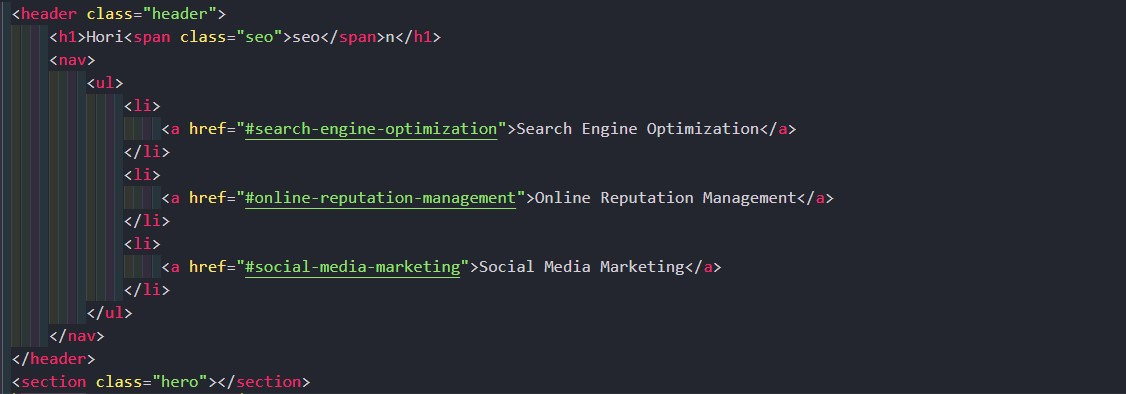
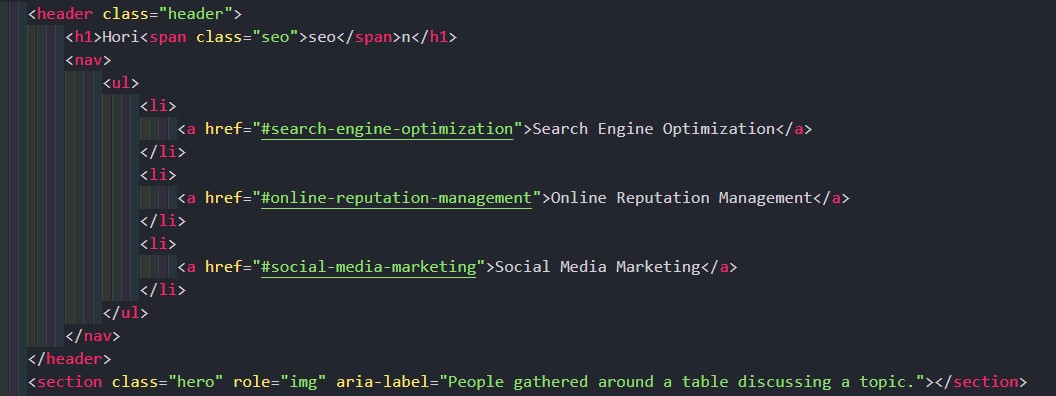
HTML code update

Changed region(s): [[0.0, 0.4873, 0.9688, 1.0], [0.0, 0.0, 0.7812, 0.4873]]

diff --git a/index.html b/index.html
@@ -23,29 +23,29 @@
             </ul>
         </nav>
     </header>
-    <section class="hero"></section>
+    <section class="hero" role="img" aria-label="People gathered around a table discussing a topic."></section>
     <section class="content">
-        <aside class="search-engine-optimization">
+        <article class="search-engine-optimization">
             <img src="./assets/images/search-engine-optimization.jpg"  class="float-left" alt="Notebook with SEO initials, laptop and a cup of coffee."/>
             <h2>Search Engine Optimization</h2>
             <p>
                 The dominance of mobile internet use means that users are searching for the right business as they travel, shop, or sit on their couch at home. Search Engine Optimization (SEO) allows you to increase your visibility and find the right customers for your business.
             </p>
-        </aside>
-        <aside id="online-reputation-management" class="online-reputation-management">
+        </article>
+        <article id="online-reputation-management" class="online-reputation-management">
             <img src="./assets/images/online-reputation-management.jpg" alt="Person working on a computer" class="float-right" />
             <h2>Online Reputation Management</h2>
             <p>
                 The web is full of opinions, and some of these can be negative. Social media allows anyone with an internet connection to say whatever they want about your business. Online Reputation Management gives you the control over what potential customers see when they search for your business.
             </p>
-        </aside>
-        <aside id="social-media-marketing" class="social-media-marketing">
+        </article>
+        <article id="social-media-marketing" class="social-media-marketing">
             <img src="./assets/images/social-media-marketing.jpg" alt="People gathered around a table and social media icons spreadded between them" class="float-left" />
             <h2>Social Media Marketing</h2>
             <p>
                 Social media continues to have a sizable influence on buying habits. Social media marketing helps you determine which platforms are suited to your brand, using analytics to find the right markets and increase your lead generation.
             </p>
-        </aside>
+        </article>
     </section>
     <section class="benefits">
         <aside class="benefit-lead">
